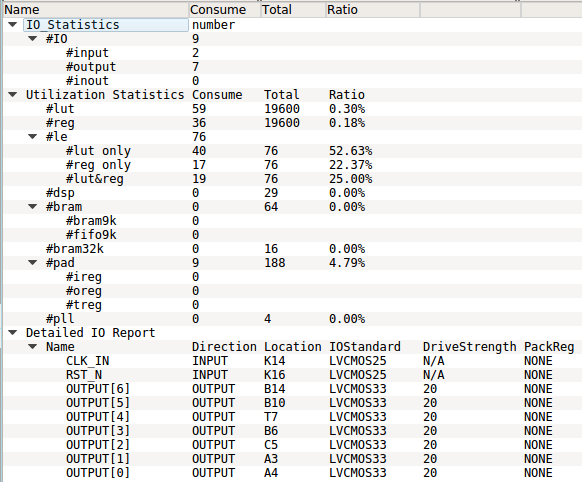
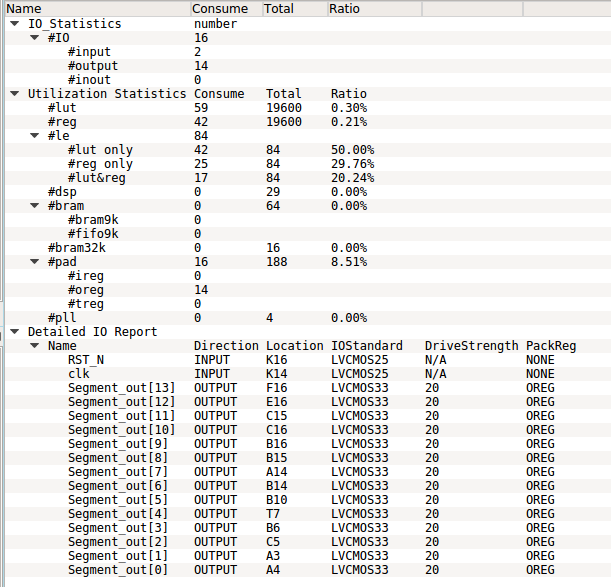
Readme Updated with Fibonacci Series output

Changed region(s): [[0.0, 0.0, 1.0, 1.0]]

diff --git a/README.md b/README.md
@@ -20,11 +20,16 @@ Seven Segment Interface with Tang Primer
     │   ├── Seven_Segment_rtl.area
     │   ├── Seven_Segment_rtl.db
     │   ├── simulation
-    │   └── td_2021-01-03_17-04-28.log
+    │   ├── td_2021-01-03_17-04-28.log
+    │   ├── td_2021-01-03_20-49-33.log
+    │   └── td_2021-01-04_15-55-37.log
     ├── README.md
     └── src
         ├── a.out
-        └── Seven_Segment.v
+        ├── Fibonacci_Series_TB.v    #Top Module
+        ├── Fibonacci_Series.v       #Fibonacci Series generation module
+        └── Seven_Segment.v          #Seven Segment Module
+
 
 ## Circuit:
 - Common Cathode Pins Connected to FPGA via current limiting Resistor(330 ohm)
@@ -35,11 +40,13 @@ Seven Segment Interface with Tang Primer
 ## Physical Summary:
 
 <p align="center">
-  <img width="582" height="482" src="assets/physical_summary.png">
+  <img width="611" height="482" src="assets/physical_summary.png">
 </p>
 
-## Working Video:
+## Fibonacci output on seven segment with tang primer:
 
 <p align="center">
-  <img width="640" height="352" src="assets/output.gif">
+  <img width="640" height="352" src="assets/Fibonacci_Output.gif">
 </p>
+
+
